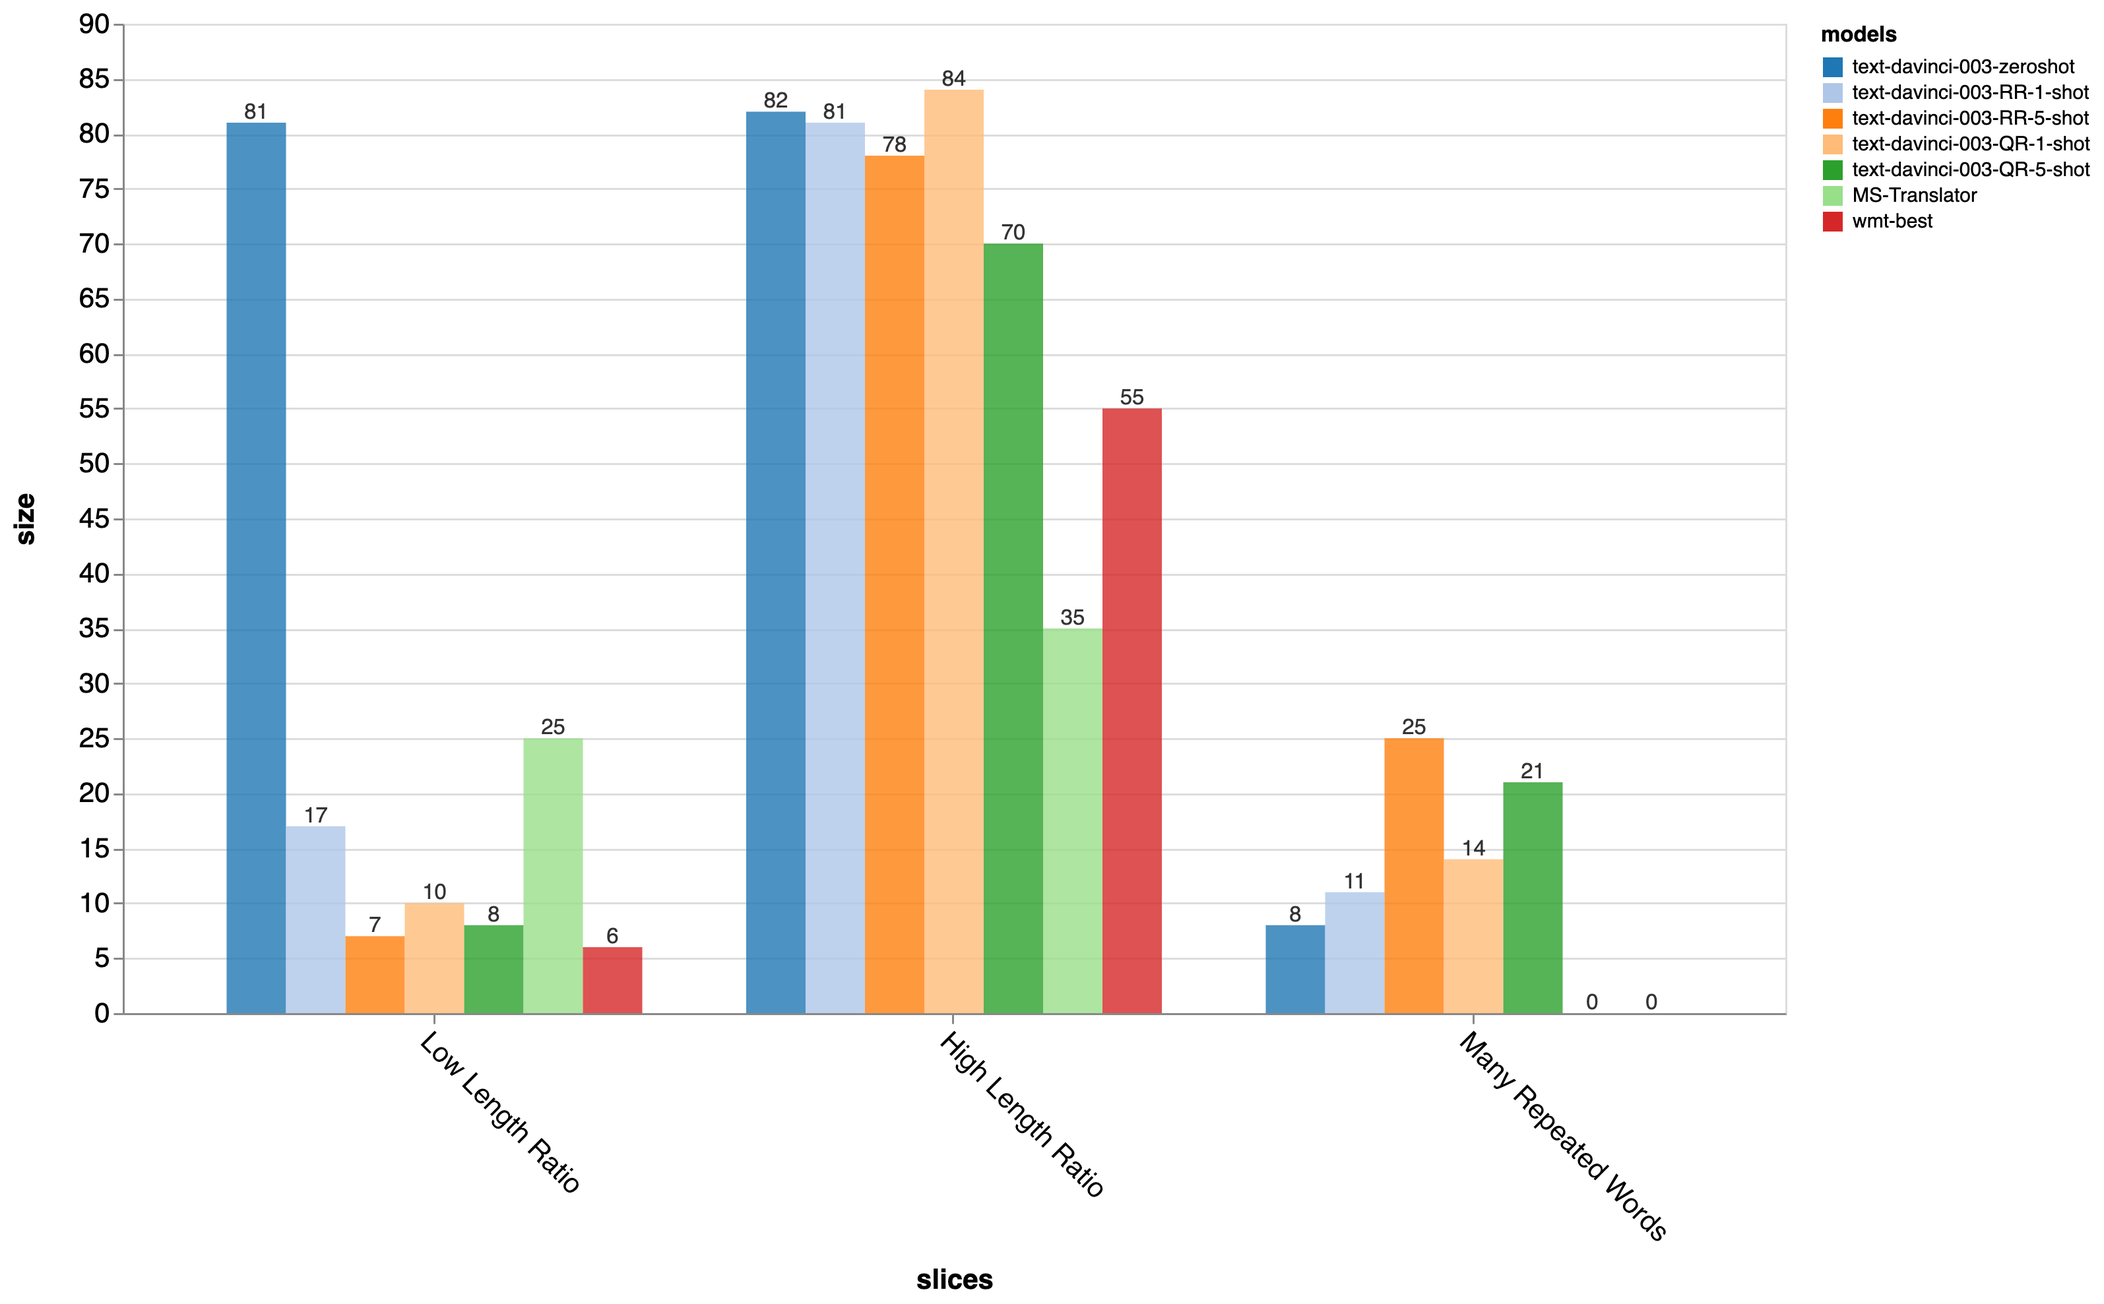
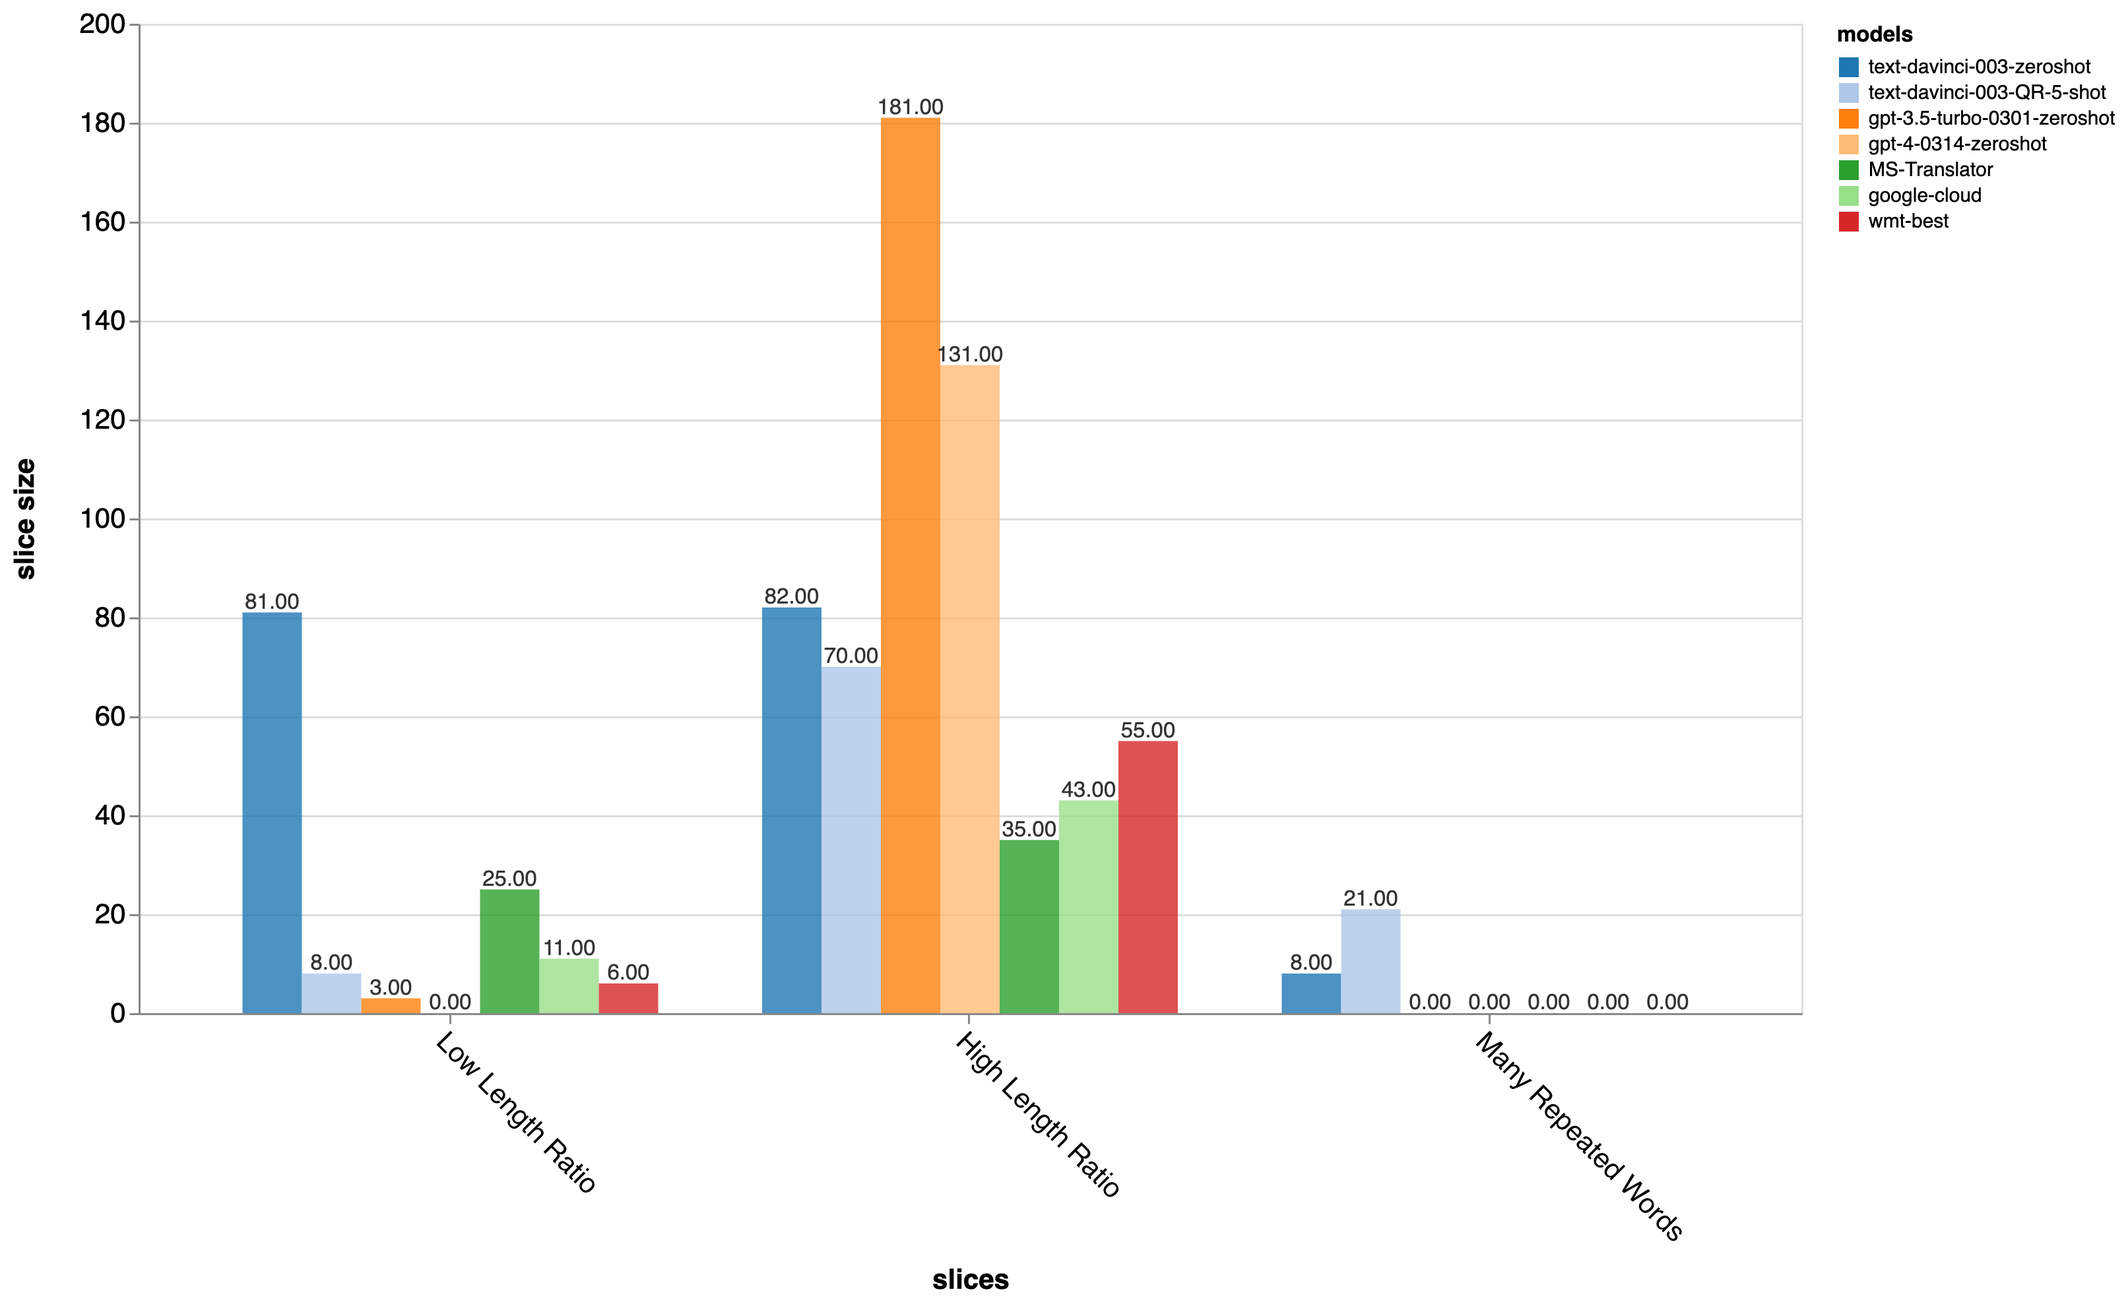
Update the GPT-MT report

diff --git a/examples/analysis_gpt_mt/report/gpt_translation_pricing_calculator.py b/examples/analysis_gpt_mt/report/gpt_translation_pricing_calculator.py
@@ -1,0 +1,13 @@
+"""A script to calculate estimated cost for translation."""
+
+# Calculation for GPT-series models
+for model, input_cost, output_cost in [
+    ("gpt-3.5-turbo", 1.5, 1.5),
+    ("text-davinci-003", 20, 20),
+    ("gpt-4", 30, 60),
+]:
+    for shots in [0, 1, 5]:
+        input_tokens = (1.5 + shots) / 2.5
+        output_tokens = (1 + shots) / 2.5
+        price = input_tokens * input_cost + output_tokens * output_cost
+        print(f"{model} {shots}-shot: {price}")

diff --git a/examples/analysis_gpt_mt/report/README.md b/examples/analysis_gpt_mt/report/README.md
@@ -1,6 +1,9 @@
 # Zeno GPT-MT Report
 
-by [Graham Neubig](http://phontron.com/) (June 9, 2023)
+by [Graham Neubig](http://phontron.com/) with contributions from
+[Zhiwei He](https://zwhe99.github.io/).
+
+(Updated June 22, 2023)
 
 Machine translation is one of the most important and classic language-related
 tasks, and a huge investment has been put into it over the years. Due to this
@@ -17,23 +20,26 @@ that can handle many different tasks.
 
 Luckily, some good folks at Microsoft [ran an extensive set of
 experiments](https://github.com/microsoft/gpt-MT), generating different results
-from GPT and comparing them against existing methods. The [Microsoft
+from GPT-3.5 and comparing them against existing methods. The [Microsoft
 paper](https://arxiv.org/abs/2302.09210) is a great paper (read it!) but I was
 eager to dig in a bit more and understand the peculiarities of how GPT models
-stand up to practical usage in multilingual applications. So we used
-[Zeno](https://zenoml.com/) to explore the data, and found:
+stand up to practical usage in multilingual applications, and also interested
+in how other models such as gpt-3.5-turbo (ChatGPT), GPT-4, and Google Translate
+compared.
 
-- **GPT-3.5 is competitive but still somewhat worse** than the other MT models
-  that were tried, and this is relatively consistent across languages
-- GPT models are competitive on shorter sentences, but **worse on
-  longer sentences**
-- GPT-3.5 demonstrates some **rare but degenerate behavior** such as repeating
-  or dropping content, or performing particularly poorly on unusually formatted
-  text
+So we used [Zeno](https://zenoml.com/) to explore the data, and found:
+
+- **GPT-3.5 is somewhat worse than the Microsoft and Google offerings,
+  while GPT-4 is on par with them**.
+- GPT models are **relatively good on shorter sentence and relatively bad on
+  longer sentences**.
+- GPT models demonstrates some **rare but degenerate behavior** such as repeating
+  or dropping content, performing particularly poorly on unusually formatted
+  text, and sometimes outputting extraneous information not included in the input.
 - On the other hand, GPT models did **better on some more tricky examples**,
   such as idioms, ambiguous expressions, or pronouns
 - We also compared pricing, **gpt-3.5-turbo is less expensive,
-  text-davinci-003 is comparable, and gpt-4 is more expensive than
+  but text-davinci-003 and gpt-4 are more expensive than
   special-purpose translation APIs** such as Google’s or Microsoft’s
 
 We released a browsing interface here so that you can easily dig in deeper too:
@@ -46,7 +52,9 @@ Read on for more!
 
 The experiments introduce seven different main systems:
 
-- Zero-shot GPT-3.5 (**text-davinci-003-zeroshot**): GPT-3.5 using no examples.
+- Zero-shot GPT-3.5 (**text-davinci-003-zeroshot**),
+  ChatGPT (**gpt-3.5-turbo-zeroshot**), and GPT-4 (**gpt-3.5-turbo-zeroshot**):
+  GPT models using no examples.
 - Few-shot GPT with random examples (**text-davinci-003-RR-1-shot** and
   **text-davinci-003-RR-5-shot**): This uses 1 or 5 random examples from a
   training corpus as demonstrations to the GPT model.
@@ -54,8 +62,11 @@ The experiments introduce seven different main systems:
   examples (**text-davinci-003-QR-1-shot** and **text-davinci-003-QR-5-shot**):
   This uses 1 or 5 examples that are selected for their high degree of alignment
   between the inputs and outputs.
+- Zero-shot ChatGPT (**gpt-3.5-turbo-zeroshot**).
+- Zero-shot GPT-4 (**gpt-3.5-turbo-zeroshot**): GPT-3.5 using no examples.
 
-These are compared with both Microsoft Translator (**MS-Translator**) and the
+These are compared with both Microsoft Translator (**MS-Translator**),
+Google Translate (**google-cloud**) and the
 best-performing systems from the [Conference on Machine
 Translation](http://www2.statmt.org/wmt23/) (**wmt-best**).
 
@@ -63,30 +74,38 @@ As evaluation data, the paper uses the standard MT data from WMT. This is news
 data, mostly between English and Czech (cs), Russian (ru), Ukranian (uk),
 Icelandic (is), German (de), Chinese (zh), Japanese (ja), and Hausa (ha).
 
-For analyzing the data, I mostly used
-**[chrF](https://aclanthology.org/W15-3049/)**, a simple measure of
-character-level overlap between the system output and a human-authored
-gold-standard reference translation. But the browsing interface also shows
-results for
-[BERTScore](https://docs.inspiredco.ai/critique/metric_bert_score.html) and
-[COMET](https://docs.inspiredco.ai/critique/metric_comet.html), model-based
-metrics that also tend to have good correlation with human judgements.
+For analyzing the data, we used three different metrics:
+
+- **[chrF](https://docs.inspiredco.ai/critique/metric_chrf.html)**: a
+  simple measure of character-level overlap between the system output and a human-authored
+  gold-standard reference translation.
+- **[COMET](https://docs.inspiredco.ai/critique/metric_comet.html)**: a
+  metric based on a pretrained model that is fine-tuned to predict human
+  judgements.
+
+Both metrics are useful, but chrF tends to better capture stylistic similiarity
+(e.g. it is very sensitive to capitalization, spelling, etc.), where COMET
+tends to better capture whether the outputs are semantically correct.
 
 Let’s take a look at the findings!
 
 ## Overall Performance Comparison
 
 Overall, the GPT-based models did quite well given that they are not
-specifically trained for translation. Averaged over all datasets, the results
-did lag a little bit behind MS translator and the best WMT system, but they were
-still quite competitive. Here are the results for chrf, BERTScore, and COMET:
+specifically trained for translation. With respect to chrF, the special-purpose
+models seem to do a bit better, but with respect to COMET, GPT-4 actually
+bests the special-purpose models. Here are the detailed results:
 
-| chrf | BERTScore | COMET |
-| --- | --- | --- |
-| ![avg-chrf.png](images/avg-chrf.png) | ![avg-bert-score.png](images/avg-bert-score.png) | ![avg-comet.png](images/avg-comet.png) |
+| chrf | COMET |
+| --- | --- |
+| ![avg-chrf.png](images/avg-chrf.png) | ![avg-comet.png](images/avg-comet.png) |
+
+This indicates that the GPT models are doing a good job of capturing the
+semantics of the input, but are not as good at matching the style or exact wording
+of the output. (I will explain the GPT-4 "postprocess" output below)
 
 Next, let’s look language-by-language. I’ve separated these into translations
-into English and into other languages:
+into English and into other languages, and displayed the COMET score:
 
 ### Into English
 
@@ -96,9 +115,14 @@ into English and into other languages:
 
 ![scores-into-other.png](images/scores-into-other.png)
 
-Overall, we can see that GPT-3 tends to be more competitive with the other
-state-of-the-art models when translating into English than when translating out
-of English or between French and German.
+Overall, we can see that the GPT series and particularly GPT-4 notches quite
+impressive performance when translating **into** English, with the results
+being particularly striking for language pairs with a high-resource source
+language that is different from English (e.g. Chinese and Japanese). On the
+other hand, translating **into other languages**, the GPT models are anywhere
+from very similar to the special-purpose models (e.g. for German, French,
+and Czech) to significantly worse (e.g. for Russian, Ukranian,
+Icelandic, and Hausa).
 
 ### Accuracy by Length
 
@@ -110,40 +134,57 @@ and the GPT models may be sufficient for shorter texts such as conversations.
 
 ![accuracy-by-length.png](images/accuracy-by-length.png)
 
-## GPT-3.5 is Less Robust than Special-purpose Models
+## GPT Series is Less Robust than Special-purpose Models
 
 While overall accuracy was good, digging deeper into the data demonstrated some
 interesting and concerning cases that hint that the GPT models may be less
 robust in settings where they are pushed a bit.
 
 These examples were found by searching for examples that were relatively
-low-scoring and then using Zeno’s [exploration
-UI](https://zenoml.com/docs/intro#exploration-ui) to measure the occurrence of
-different issues. Specifically, we found several issues with degenerate outputs:
+low-scoring and then using Zeno’s [exploration UI](/docs/exploring_results.md)
+to measure the occurrence of different issues. Specifically, we found several
+issues with degenerate outputs:
 
 - Too-short outputs with a low length ratio
 - Too-long outputs with a high length ratio
 - Repeated words
+- Outputting the name of the target language as-is
 
-![degenerate-outputs.png](images/degenerate-outputs.png)
+| Degenerate Outputs | Outputting the Target Language |
+| --- | --- |
+| ![degenerate-outputs.png](images/degenerate-outputs.png) | ![degenerate-target-language.png](images/degenerate-target-language.png) |
 
 We also found that the GPT models tended to underperform on slightly unusual
 sentences with many capital letters in the input, and those with special
 formatting.
 
-### Too-short Outputs
+### Too-short Outputs and Outputting the Target Language
 
 As noted in the figure above, Zero-shot GPT was prone to output very short
 outputs (where we counted “very short” as less than 30% of the length of the
-human reference translation). These were usually indicative of the model
+human reference translation). These were usually often indicative of the model
 outputting the name of the target language as-is without outputting any of the
 translated content:
 
 ![too-short](images/too-short.png)
 
-Notably, there is a simple fix for this: few-shot prompting effectively
-prevented extremely short outputs, so when using the GPT models for translation
-it seems necessary to provide a few demonstrations.
+It was also common for GPT-4 to output the name of the target language as
+part of the translation, like this:
+
+![include-target-language](images/include-target-language.png)
+
+This was really common, 2,223 times as shown in the chart!
+There are a couple of fixes for this.
+
+1. For `text-davinci-003`, where we tried out few-shot prompting, this largely
+   fixed the problem. Unfortunately though (as we discuss in detail below),
+   using few-shot prompting also greatly increases cost of using the models.
+2. Another simple alternative that we tried out was a post-processing rule that
+   removed the name of the language from the beginning of the output sentence.
+   This is the `gpt-4-postprocess` model in the chart above.
+   This removed all of these degenerate examples, and increased the COMET score
+   for GPT-4 by a whole 0.2% overall, closing half of the gap between it and the
+   best WMT model.
 
 ### Too-long Outputs/Repeated Words
 
@@ -156,18 +197,23 @@ not always indicative of repeated words:
 
 So we also measured the number outputs where the same word was repeated more
 than 100 times (displayed in the figure above). Notably, this was an issue for
-all of the GPT-based models, but never happened for the Microsoft or WMT
-systems, so this is clearly an area where the special-purpose systems were
-superior.
-
-If you want to use GPT in translation applications, adjusting the
+the `text-davinci-003` models, but not the other systems.
+This could be fixed by the
 `frequency_penalty`
 [parameter](https://platform.openai.com/docs/api-reference/parameter-details) to
 help suppress these repetitive outputs may be prudent.
 
+Interestingly, GPT-4 didn't output the same word multiple times, but it had other
+crazy outputs that resulted in excess length, such as translating into Japanese
+and then also into the phonetic spelling in English characters.
+This is likely a result of the model being trained on language learning materials
+that include phonetic spellings.
+
+![double-output](images/double-output.png)
+
 ### Capitalized Inputs
 
-Zero- and one-shot GPT was particularly bad at processing sentences with lots of
+Zero- and one-shot GPT were also less good at processing sentences with lots of
 capital characters (more than 20%).
 
 ![many-caps.png](images/many-caps.png)
@@ -228,43 +274,47 @@ is an example.
 
 All of the previous discussion is based on the accuracy of the outputs, but when
 deciding whether to use a particular translation API, it’s also worth discussing
-the cost. In the below table, we summarize the cost of some popular APIs. Within
-the GPT series, gpt-3.5-turbo is significantly cheaper, text-davinci-003 is
-approximately the same, and gpt-4 is significantly more expensive than
-special-purpose translation APIs such as Google and Microsoft. All of these are
-3-4 orders of magnitude less expensive than human translation.
+the cost. In the below table, we provide an estimation of the cost of some
+popular APIs for translation of 1M input characters.  We make a few simplifying
+assumptions (where reality will vary based on the language pair and dataset):
 
-| Model | Cost / 1M Characters | Notes |
-| --- | --- | --- |
-| gpt-3.5-turbo | $0.8 | Pricing is $2 / 1M Tokens, so this assumes about 2.5 characters per token |
-| text-davinci-003 | $8 | Pricing is $20 / 1M Tokens, so this assumes about 2.5 characters per token |
-| Google Translate | $10 |
-| Microsoft Translator | $10 |
-| gpt-4 | $18 | Pricing is $30 / 1M per encoded token, $60 / 1M per decoded token with an 8k context window, and this takes the average
-| DeepL | $25 |
-| Human Translation | $20,000 | A standard cost for human translation is $0.1 per word, and there are about 5 characters in a word |
+- There are an identical number of characters in the input and output.
+- There are about 2.5 characters per GPT token.
+- There are about 5 characters per word.
+- The length of a zero-shot prompt is about 50% that of the average input
+  sentence.
 
-[Translation API Pricing](https://www.notion.so/04b7b19eb96b4de1a32b94e03f3c49ce?pvs=21)
+For GPT we show the results when using 0-shot, 1-shot, and 5-shot prompts, as
+used in the experiiments above.  `gpt-3.5-turbo` is pretty uniformly the
+cheapest, followed by the Google and Microsoft APIs.  `text-davinci-003` and
+`gpt-4` are more expensive, even when using 0-shot prompts and become an order
+of magnitude more expensive when using 5-shot prompts.  Even the most expensive
+model-based solution is 2 orders of magnitude less expensive than human
+translation.
+
+| Model                | 0-shot Cost | 1-shot Cost | 5-shot Cost | Notes |
+| ---                  | ---         | ---         | ---         | ---   |
+| gpt-3.5-turbo        | $1.5        | $2.7        | $7.5        | Pricing is $1.5 / 1M tokens (both input and output) |
+| Google Translate     | $10         | -           | -           | Pricing is $10 / 1M input characters |
+| Microsoft Translator | $10         | -           | -           | Pricing is $10 / 1M input characters |
+| text-davinci-003     | $20         | $36         | $100        | Pricing is $20 / 1M tokens (both input and output) |
+| DeepL                | $25         | -           | -           | Pricing is $10 / 1M input characters |
+| gpt-4                | $42         | $78         | $222        | Pricing is $30 / 1M per encoded token, $60 / 1M per decoded token with an 8k context window, and this takes the average
+| Human Translation    | $20,000 | A standard cost for human translation is $0.1 per word, and there are about 5 characters in a word |
+
+We also added a [script](gpt_translation_pricing_calculator.py) to show our work
+for the GPT model calculations.
 
 ## Conclusions
 
 From these results, we can come to the conclusion that the GPT series is a
-pretty competitive choice for translation, but as of GPT-3.5 not quite up to the
-standards of state-of-the-art translation-specific models. In particular, it
-seems to underperform when translating into non-English languages, and also
-seems to be less robust, showing significantly more degenerate behavior.
+pretty competitive choice for translation. GPT-3.5 is not quite up to the
+standards of state-of-the-art translation-specific models, but GPT-4 is quite
+competitive. On the other hand, from a pricing perspective, Google and Microsoft
+options are more cost-efficient.
 
 You can click around **[the browsing
 interface](https://zeno-ml-translation-report.hf.space)** and explore more! If you
 speak any of the languages that were evaluated, you can also click on the
 appropriate “language pair” bar and view only outputs from that language as
 well.
-
-One notable omission from the GPT-MT dataset is that while there were
-experiments with ChatGPT (which was slightly worse numerically than GPT-3.5),
-the experiments were run before the GPT-4 API was released. GPT-4 is [allegedly
-better at multilingual tasks](https://openai.com/research/gpt-4), so it would be
-very interesting to see the results with that. If you would be interested in
-helping with this, please reach out via our [github
-issue](https://github.com/zeno-ml/zeno-build/issues/128) and we could add it to
-the report!
